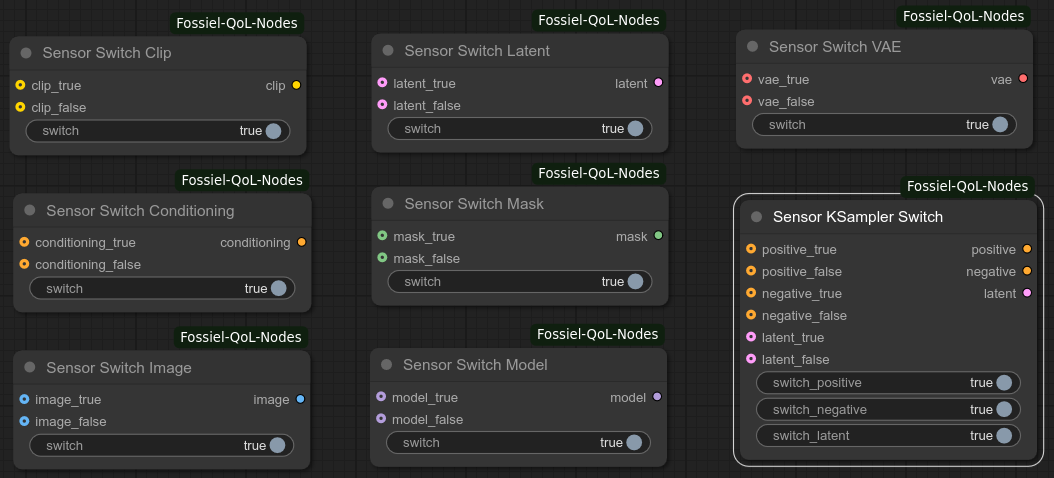
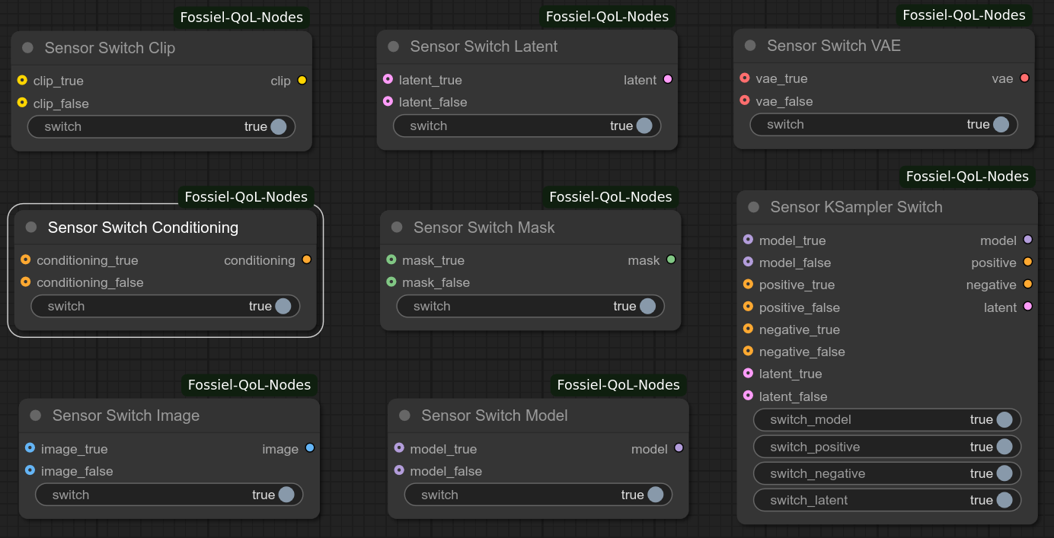
Add files via upload

diff --git a/senswitch.py b/senswitch.py
@@ -1,3 +1,5 @@
+import comfy.latent_formats
+
 class FossielSensorSwitchImage:
     @classmethod
     def INPUT_TYPES(cls):
@@ -79,6 +81,9 @@ class FossielSensorSwitchConditioning:
             return (conditioning_true if switch else conditioning_false,)
         return (None,)
 
+# ------------------------------------------------------------
+# FossielSensorSwitchLatent – universal version (normal + WAN)
+# ------------------------------------------------------------
 class FossielSensorSwitchLatent:
     @classmethod
     def INPUT_TYPES(cls):
@@ -97,14 +102,39 @@ class FossielSensorSwitchLatent:
     FUNCTION = "switch"
     CATEGORY = "Fossiel/QoL"
 
+    def _to_raw(self, latent_dict):
+        """
+        Convert a WAN latent dict to the raw tensor that KSampler expects.
+        Normal latents are returned unchanged.
+        """
+        samples = latent_dict["samples"]
+
+        # WAN nodes store the format object under this key
+        fmt = latent_dict.get("latent_format")
+        if fmt is not None and isinstance(fmt, (comfy.latent_formats.Wan21,
+                                               comfy.latent_formats.Wan22)):
+            # `process_in` undoes the scaling that `process_out` applied
+            samples = fmt.process_in(samples)
+
+        # Return a *new* dict – never mutate the original
+        return {"samples": samples}
+
     def switch(self, switch, latent_true=None, latent_false=None):
+        # ------------------------------------------------------------------
+        # 1. Early-out cases (exactly the same as your original node)
+        # ------------------------------------------------------------------
         if latent_true is not None and latent_false is None:
-            return (latent_true,)
+            return (self._to_raw(latent_true),)
         if latent_false is not None and latent_true is None:
-            return (latent_false,)
-        if latent_true is not None and latent_false is not None:
-            return (latent_true if switch else latent_false,)
-        return (None,)
+            return (self._to_raw(latent_false),)
+        if latent_true is None and latent_false is None:
+            return ({"samples": None},)   # or raise – you decide
+
+        # ------------------------------------------------------------------
+        # 2. Both inputs present → pick one and normalise it
+        # ------------------------------------------------------------------
+        chosen = latent_true if switch else latent_false
+        return (self._to_raw(chosen),)
 
 class FossielSensorSwitchMask:
     @classmethod
@@ -192,11 +222,14 @@ class FossielSensorKSamplerSwitch:
     def INPUT_TYPES(cls):
         return {
             "required": {
+                "switch_model": ("BOOLEAN", {"default": True}),
                 "switch_positive": ("BOOLEAN", {"default": True}),
                 "switch_negative": ("BOOLEAN", {"default": True}),
                 "switch_latent": ("BOOLEAN", {"default": True}),
             },
             "optional": {
+                "model_true": ("MODEL",),
+                "model_false": ("MODEL",),
                 "positive_true": ("CONDITIONING",),
                 "positive_false": ("CONDITIONING",),
                 "negative_true": ("CONDITIONING",),
@@ -206,13 +239,45 @@ class FossielSensorKSamplerSwitch:
             }
         }
 
-    RETURN_TYPES = ("CONDITIONING", "CONDITIONING", "LATENT")
-    RETURN_NAMES = ("positive", "negative", "latent")
+    RETURN_TYPES = ("MODEL", "CONDITIONING", "CONDITIONING", "LATENT")
+    RETURN_NAMES = ("model", "positive", "negative", "latent")
     FUNCTION = "switch"
     CATEGORY = "Fossiel/QoL"
 
-    def switch(self, switch_positive, switch_negative, switch_latent, positive_true=None, positive_false=None, negative_true=None, negative_false=None, latent_true=None, latent_false=None):
-        # Handle positive prompt
+    def _to_raw_latent(self, latent_dict):
+        """Convert WAN latent to raw format expected by KSampler; normal latents unchanged."""
+        if latent_dict is None:
+            return None
+        samples = latent_dict.get("samples")
+        if samples is None:
+            return latent_dict
+
+        fmt = latent_dict.get("latent_format")
+        if fmt is not None and isinstance(fmt, (comfy.latent_formats.Wan21, comfy.latent_formats.Wan22)):
+            samples = fmt.process_in(samples)
+
+        # Return new dict to avoid mutation
+        return {"samples": samples}
+
+    def switch(self,
+               switch_model,
+               switch_positive, switch_negative, switch_latent,
+               model_true=None, model_false=None,
+               positive_true=None, positive_false=None,
+               negative_true=None, negative_false=None,
+               latent_true=None, latent_false=None):
+
+        # === MODEL SWITCH ===
+        if model_true is not None and model_false is None:
+            model_out = model_true
+        elif model_false is not None and model_true is None:
+            model_out = model_false
+        elif model_true is not None and model_false is not None:
+            model_out = model_true if switch_model else model_false
+        else:
+            model_out = None  # or raise? up to you
+
+        # === POSITIVE ===
         if positive_true is not None and positive_false is None:
             positive_out = positive_true
         elif positive_false is not None and positive_true is None:
@@ -222,7 +287,7 @@ class FossielSensorKSamplerSwitch:
         else:
             positive_out = None
 
-        # Handle negative prompt
+        # === NEGATIVE ===
         if negative_true is not None and negative_false is None:
             negative_out = negative_true
         elif negative_false is not None and negative_true is None:
@@ -232,14 +297,15 @@ class FossielSensorKSamplerSwitch:
         else:
             negative_out = None
 
-        # Handle latent
+        # === LATENT (with WAN fix) ===
         if latent_true is not None and latent_false is None:
-            latent_out = latent_true
+            latent_out = self._to_raw_latent(latent_true)
         elif latent_false is not None and latent_true is None:
-            latent_out = latent_false
+            latent_out = self._to_raw_latent(latent_false)
         elif latent_true is not None and latent_false is not None:
-            latent_out = latent_true if switch_latent else latent_false
+            chosen = latent_true if switch_latent else latent_false
+            latent_out = self._to_raw_latent(chosen)
         else:
             latent_out = None
 
-        return (positive_out, negative_out, latent_out)
+        return (model_out, positive_out, negative_out, latent_out)

diff --git a/README.md b/README.md
@@ -72,7 +72,7 @@ This node is your go-to hub for managing settings in ComfyUI. It simplifies crea
 
 ![WebP Wrangler](images/webpw_ss.png)
 
-Load and extract frames from animated WebP files with full control over range and output.
+This node allows you to load and use animated WebP files, as though they were proper videos. You can manipulate the animated batch to your liking or output single frames. It also supports WebP files with an alpha channel.
 
 #### Specifications
 
@@ -111,8 +111,8 @@ Load and extract frames from animated WebP files with full control over range an
 
 This is a set of 8 switches with a very special ability: Besides being able to function like any other switch, these switches will detect which of their 2 input ports is active and send that to the output. This is particularly useful in workflows where group or node bypassing is present. Let's say, for example, you want to send either a generated or a loaded image to another node's input. You would then connect the VAE Decode node's output to the first input of the Sensor Switch Image node and a Load Image node to the second input. Whichever of the two is not bypassed, will be sent to the destination node. If both inputs are active, the True/False toggle becomes active and the switch works like any other switch.  
   
-IMPORTANT:
-The Sensor Switch Latent node does not currently support the latent format for WAN 2.1 & 2.2
+Updated:  
+The Sensor Switch Latent now also supports the latent format for WAN 2.1 & 2.2
   
   
 #### Installation Instructions
@@ -125,6 +125,8 @@ The Sensor Switch Latent node does not currently support the latent format for W
 
 
 ## History
+2025/10/31 - Updated the Sensor KSampler Switch to have switching support for all KSampler and KSampler (Advanced) input ports.  
+2025/10/31 - Added WAN 2.1 & 2.2 support to the Sensor Switch Latent node.  
 2025/10/28 - Added WebP Wrangler for animated WebP loading with frame range control.  
 2025/10/28 - Updated FossielCentralControl_v2: Added Project_Name, renamed Name → Scene_Name, improved naming logic (no double delimiters).  
 2025/10/27 - Added Sensor Switch Nodes.  
